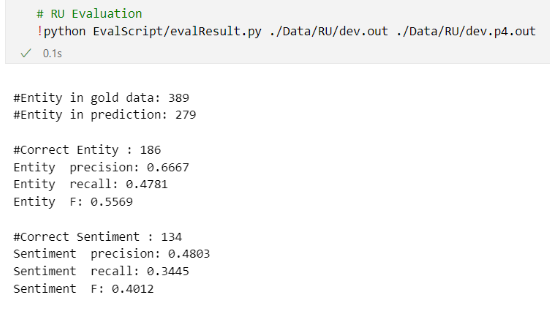
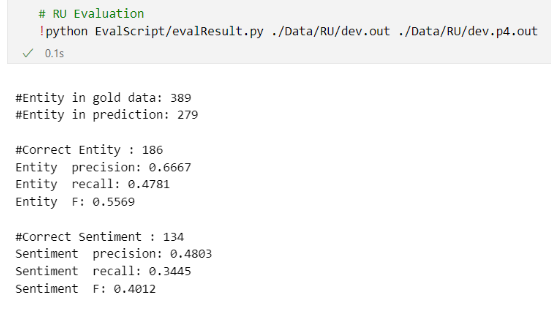
Fixed image bug with russian result

diff --git a/_projects/Sentiment_and_Entity_Identification.md b/_projects/Sentiment_and_Entity_Identification.md
@@ -161,7 +161,7 @@ The results are calculated using precision and recall. The F score is subsequent
 #### Russian Results
 <div class="row">
     <div class="col-sm mt-3 mt-md-0">
-        {% include figure.html path="assets/img/RU_4.png" title="Training Result" class="img-fluid rounded z-depth-1" %}
+        {% include figure.html path="assets/img/RU_4.PNG" title="Training Result" class="img-fluid rounded z-depth-1" %}
     </div>
 </div>
 <div class="caption">
